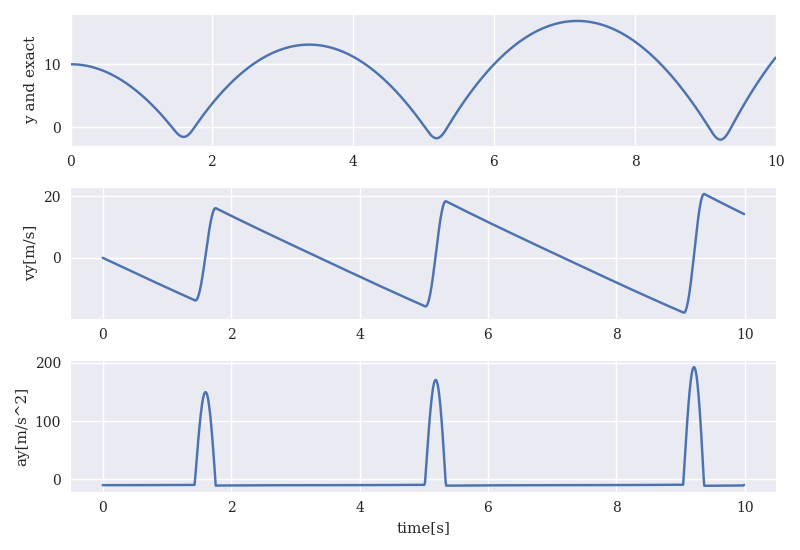
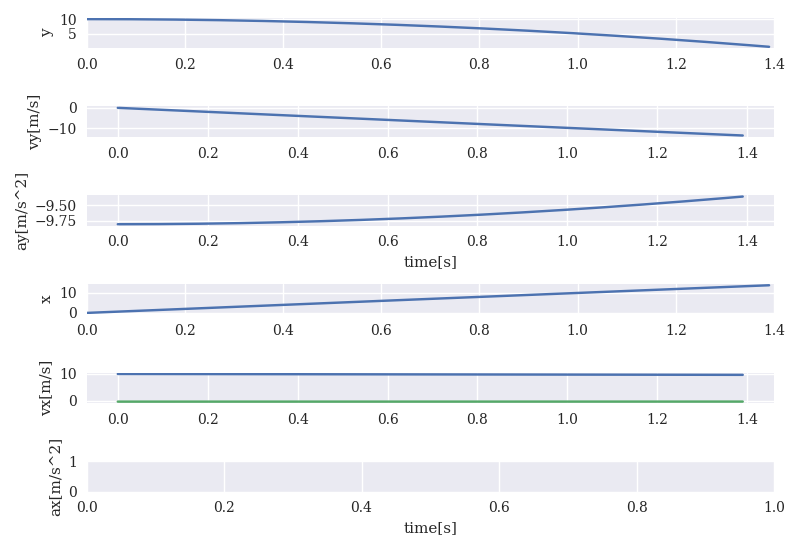
test hw3

diff --git a/doc/src/motion/Programs/Hw3Exercise6v1.py b/doc/src/motion/Programs/Hw3Exercise6v1.py
@@ -36,12 +36,11 @@ mpl.rcParams['font.family'] = 'serif'
 
 
 g = 9.80655 #m/s^2
+# Note that we bake inn the mass in D
 D = 0.00245 #m/s
 DeltaT = 0.01
-R = 0.1
-k = 100.0
 #set up arrays 
-tfinal = 10
+tfinal = 1.4
 n = ceil(tfinal/DeltaT)
 # define scaling constant vT
 vT = sqrt(g/D)
@@ -66,11 +65,8 @@ xanalytic[0] = x[0]
 # Start integrating using Euler's method
 for i in range(n-1):
     # expression for acceleration
-    N = 0.0
-    if (y[i] < R):
-        N = k*(R-y[i])
-    ax[i] = -D*vx[i]*vx[i]
-    ay[i] = -g - D*vy[i]*abs(vy[i])+N
+    ax[i] = -D*vx[i]*abs(vx[i])
+    ay[i] = -g - D*vy[i]*abs(vy[i])
     # update velocity and position
     x[i+1] = x[i] + DeltaT*vx[i]
     vx[i+1] = vx[i] + DeltaT*ax[i]
@@ -80,15 +76,15 @@ for i in range(n-1):
     t[i+1] = t[i] + DeltaT
     yanalytic[i+1] = y[0]-(vT*vT/g)*log(cosh(g*t[i+1]/vT))
     xanalytic[i+1] = log(1.+t[i+1]*vx[0]*D)/D
-#    if ( y[i+1] < 0.0):
-#        break
+    if ( y[i+1] < 0.0):
+        break
 ay[n-1] = -g + D*vy[n-1]*vy[n-1]
 ax[n-1] = -D*vx[n-1]*vx[n-1]
 data = {'t[s]': t,
-        'y[m]': y,#-yanalytic,
+        'Relative error in y': abs((y-yanalytic)/yanalytic),
         'vy[m/s]': vy,
         'ay[m/s^2]': ay,
-        'x[m]': x-xanalytic,
+        'Relative error in x': abs((x-xanalytic)/xanalytic),
         'vx[m/s]': vx,
         'ax[m/s^2]': ax
 }
@@ -97,15 +93,30 @@ display(NewData)
 
 
 fig, axs = plt.subplots(3, 1)
-axs[0].plot(t, y)#, t, yanalytic)
+axs[0].plot(t, y)
 axs[0].set_xlim(0, tfinal)
-axs[0].set_ylabel('y and exact')
+axs[0].set_ylabel('y')
 axs[1].plot(t, vy)
 axs[1].set_ylabel('vy[m/s]')
 axs[2].plot(t, ay)
 axs[2].set_xlabel('time[s]')
 axs[2].set_ylabel('ay[m/s^2]')
 fig.tight_layout()
-save_fig("EulerIntegration")
+save_fig("YEulerIntegration")
 plt.show()
+
+
+fig, axs = plt.subplots(3, 1)
+axs[0].plot(t, x)
+axs[0].set_xlim(0, tfinal)
+axs[0].set_ylabel('x')
+axs[1].plot(t, vx)
+axs[1].set_ylabel('vx[m/s]')
+axs[2].plot(t, ax)
+axs[2].set_xlabel('time[s]')
+axs[2].set_ylabel('ax[m/s^2]')
+fig.tight_layout()
+save_fig("XEulerIntegration")
+plt.show()
+
 

diff --git a/doc/src/motion/Programs/Hw3Exercise7v1.py b/doc/src/motion/Programs/Hw3Exercise7v1.py
@@ -1,0 +1,84 @@
+# Exercise 6, hw3, smarter way with declaration of vx, vy, x and y
+# Common imports
+import numpy as np
+import pandas as pd
+from math import *
+import matplotlib.pyplot as plt
+import os
+
+# Where to save the figures and data files
+PROJECT_ROOT_DIR = "Results"
+FIGURE_ID = "Results/FigureFiles"
+DATA_ID = "DataFiles/"
+
+if not os.path.exists(PROJECT_ROOT_DIR):
+    os.mkdir(PROJECT_ROOT_DIR)
+
+if not os.path.exists(FIGURE_ID):
+    os.makedirs(FIGURE_ID)
+
+if not os.path.exists(DATA_ID):
+    os.makedirs(DATA_ID)
+
+def image_path(fig_id):
+    return os.path.join(FIGURE_ID, fig_id)
+
+def data_path(dat_id):
+    return os.path.join(DATA_ID, dat_id)
+
+def save_fig(fig_id):
+    plt.savefig(image_path(fig_id) + ".png", format='png')
+
+
+from pylab import plt, mpl
+plt.style.use('seaborn')
+mpl.rcParams['font.family'] = 'serif'
+
+g = 9.80655 #m/s^2
+D = 0.0245 #m/s
+m = 0.2 # kg
+R = 0.1
+k = 1000.0
+# Define Gravitational force as a vector in x and y
+G = -m*g*np.array([0.0,1])
+DeltaT = 0.01
+#set up arrays 
+tfinal = 150.0
+n = ceil(tfinal/DeltaT)
+# set up arrays for t, a, v, and x
+t = np.zeros(n)
+v = np.zeros((n,2))
+r = np.zeros((n,2))
+# Initial conditions
+r0 = np.array([0.0,2.0])
+v0 = np.array([10.0,10.0])
+r[0] = r0
+v[0] = v0
+# Start integrating using Euler's method
+for i in range(n-1):
+    # Set up forces, air resistance FD
+    if ( r[i,1] < R):
+        N = k*(R-r[i,1])*np.array([0,1])
+    else:
+        N = np.array([0,0])
+    vabs = sqrt(sum(v[i]*v[i]))
+    FD = 0.0#-D*v[i]*vabs
+    Fnet = FD+G+N
+    a = Fnet/m
+    # update velocity, time and position
+    v[i+1] = v[i] + DeltaT*a
+    r[i+1] = r[i] + DeltaT*v[i+1]
+    t[i+1] = t[i] + DeltaT
+
+fig, axs = plt.subplots(2, 1)
+axs[0].plot(r[:,0], r[:,1])
+axs[0].set_xlim(0, tfinal)
+axs[0].set_ylabel('y[m]')
+axs[1].plot(t, v[:,1])
+axs[1].set_ylabel('vy[m/s]')
+axs[1].set_xlabel('x[m]')
+fig.tight_layout()
+save_fig("YEulerIntegration")
+plt.show()
+
+

diff --git a/doc/src/motion/Programs/Hw3Exercise6v2.py b/doc/src/motion/Programs/Hw3Exercise6v2.py
@@ -1,0 +1,78 @@
+# Exercise 6, hw3, smarter way with declaration of vx, vy, x and y
+# Common imports
+import numpy as np
+import pandas as pd
+from math import *
+import matplotlib.pyplot as plt
+import os
+
+# Where to save the figures and data files
+PROJECT_ROOT_DIR = "Results"
+FIGURE_ID = "Results/FigureFiles"
+DATA_ID = "DataFiles/"
+
+if not os.path.exists(PROJECT_ROOT_DIR):
+    os.mkdir(PROJECT_ROOT_DIR)
+
+if not os.path.exists(FIGURE_ID):
+    os.makedirs(FIGURE_ID)
+
+if not os.path.exists(DATA_ID):
+    os.makedirs(DATA_ID)
+
+def image_path(fig_id):
+    return os.path.join(FIGURE_ID, fig_id)
+
+def data_path(dat_id):
+    return os.path.join(DATA_ID, dat_id)
+
+def save_fig(fig_id):
+    plt.savefig(image_path(fig_id) + ".png", format='png')
+
+
+from pylab import plt, mpl
+plt.style.use('seaborn')
+mpl.rcParams['font.family'] = 'serif'
+
+g = 9.80655 #m/s^2
+D = 0.00245 #m/s
+m = 0.2 # kg
+# Define Gravitational force as a vector in x and y
+G = -m*g*np.array([0.0,1])
+DeltaT = 0.01
+#set up arrays 
+tfinal = 1.4
+n = ceil(tfinal/DeltaT)
+# set up arrays for t, a, v, and x
+t = np.zeros(n)
+v = np.zeros((n,2))
+r = np.zeros((n,2))
+# Initial conditions
+r0 = np.array([0.0,10.0])
+v0 = np.array([10.0,0.0])
+r[0] = r0
+v[0] = v0
+# Start integrating using Euler's method
+for i in range(n-1):
+    # Set up forces, air resistance FD
+    vabs = sqrt(sum(v[i]*v[i]))
+    FD = -D*v[i]*vabs
+    Fnet = FD+G
+    a = Fnet/m
+    # update velocity, time and position
+    v[i+1] = v[i] + DeltaT*a
+    r[i+1] = r[i] + DeltaT*v[i]
+    t[i+1] = t[i] + DeltaT
+
+fig, axs = plt.subplots(2, 1)
+axs[0].plot(t, r[:,1])
+axs[0].set_xlim(0, tfinal)
+axs[0].set_ylabel('y')
+axs[1].plot(t, v[:,1])
+axs[1].set_ylabel('vy[m/s]')
+axs[1].set_xlabel('time[s]')
+fig.tight_layout()
+save_fig("YEulerIntegration")
+plt.show()
+
+
